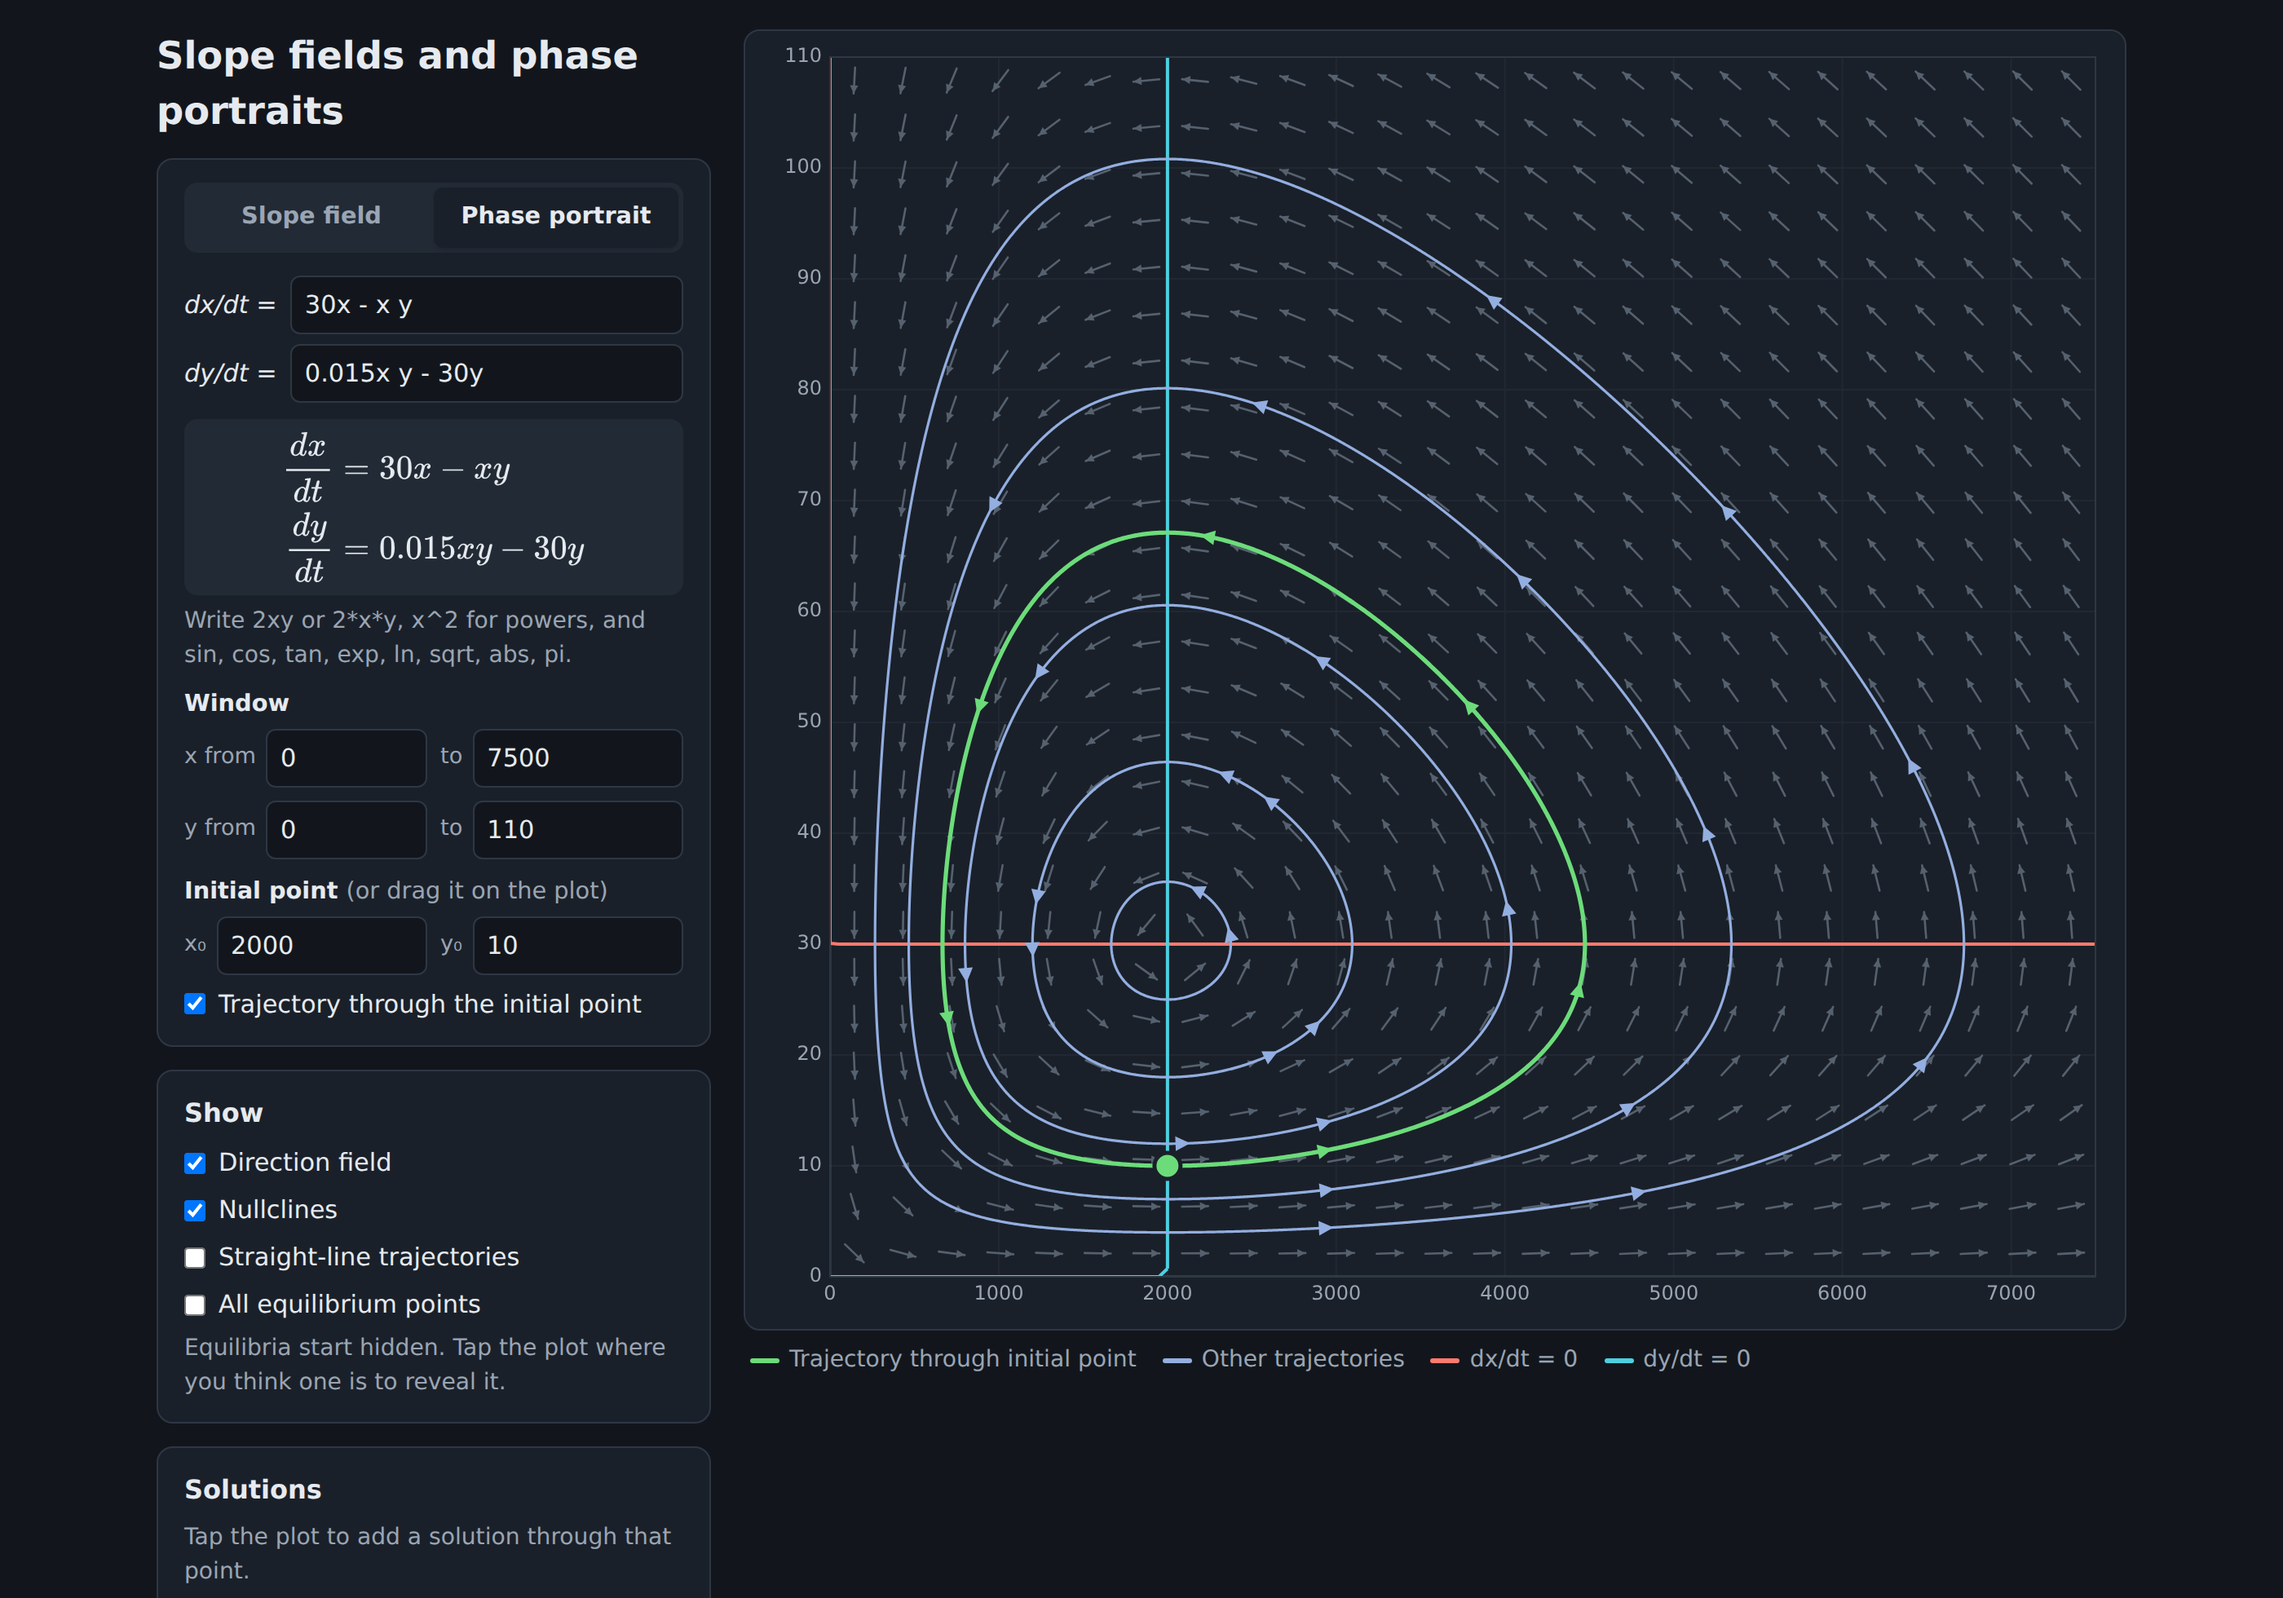
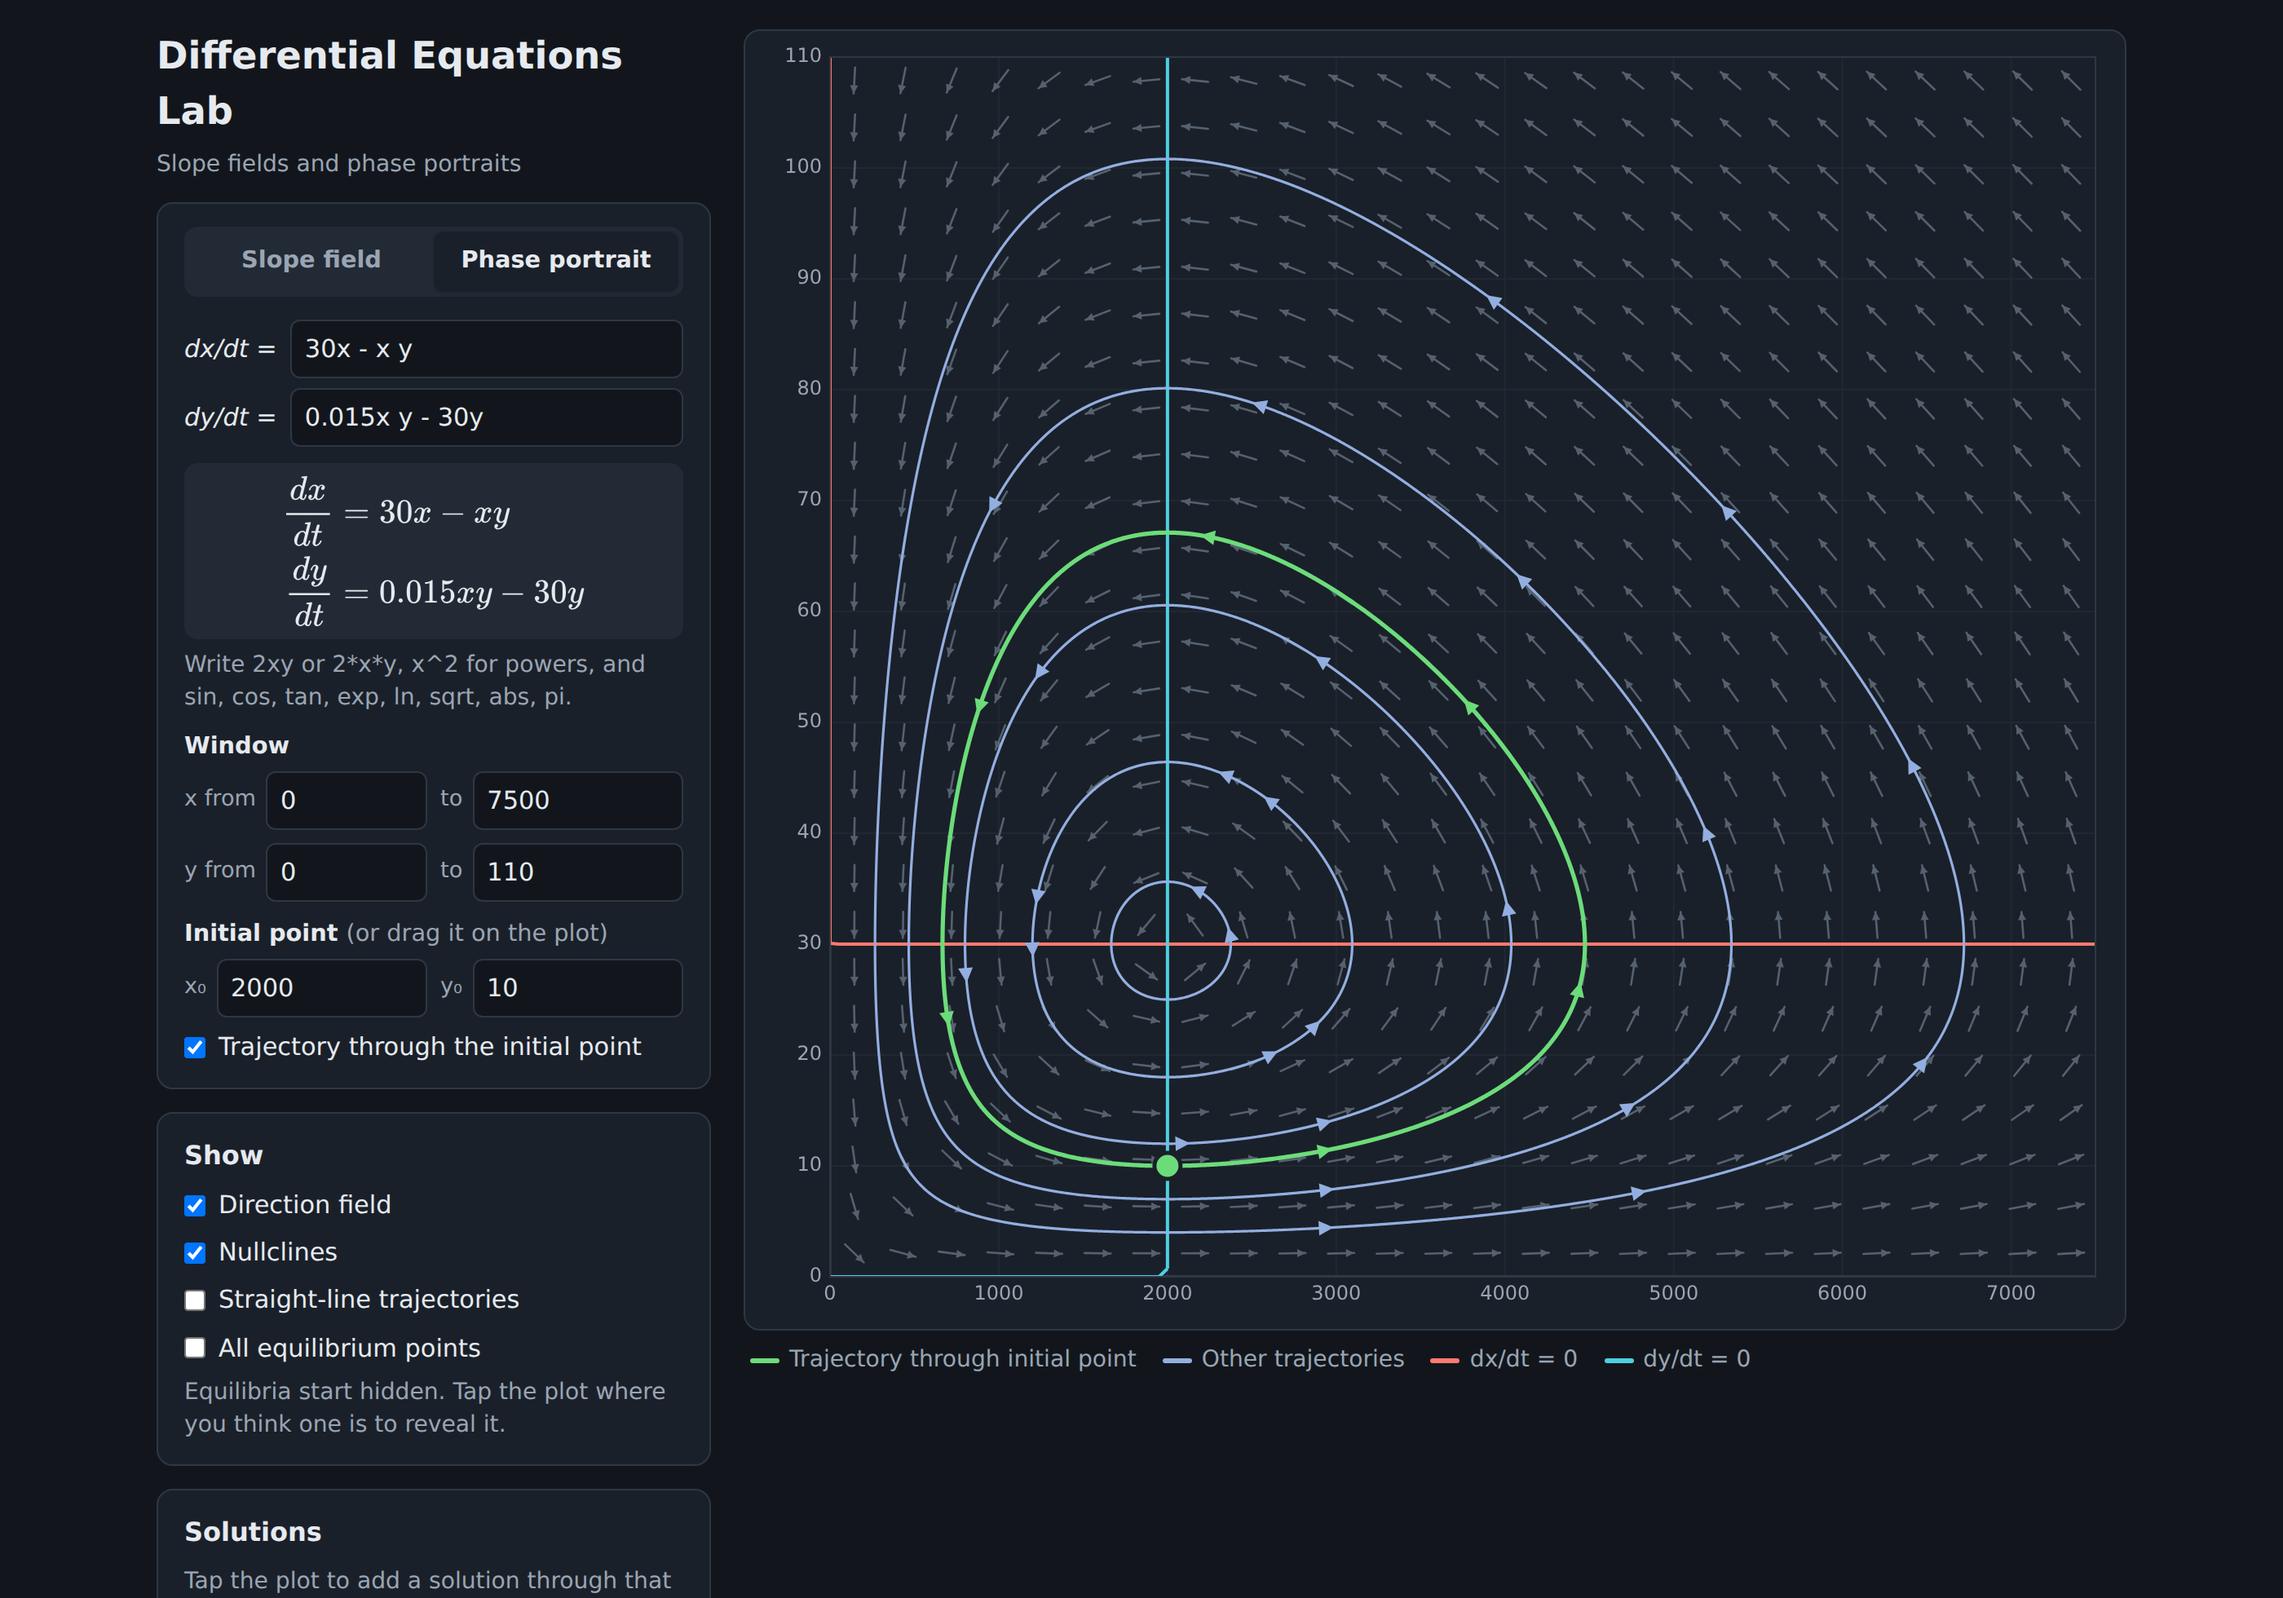
Title and Image Added

Changed region(s): [[0.0621, 0.0, 0.3107, 0.9959]]

diff --git a/index.html b/index.html
@@ -3,7 +3,13 @@
 <head>
 <meta charset="utf-8">
 <meta name="viewport" content="width=device-width, initial-scale=1, viewport-fit=cover">
-<title>Slope fields and phase portraits</title>
+<title>Differential Equations Lab</title>
+<meta name="description" content="Interactive slope fields and phase portraits for teaching differential equations, with Euler's method, nullclines, equilibria and a classify-and-solve activity.">
+<meta property="og:title" content="Differential Equations Lab">
+<meta property="og:description" content="Interactive slope fields and phase portraits for teaching differential equations.">
+<meta property="og:image" content="https://liamyardley.github.io/Differential-Equations-Lab/screenshots/social-preview.png">
+<meta property="og:url" content="https://liamyardley.github.io/Differential-Equations-Lab/">
+<meta name="twitter:card" content="summary_large_image">
 <link rel="preconnect" href="https://fonts.googleapis.com">
 <link href="https://fonts.googleapis.com/css2?family=Source+Sans+3:wght@400;600;700&display=swap" rel="stylesheet">
 <style>
@@ -85,6 +91,8 @@ tr.sel td{background:color-mix(in srgb,var(--euler) 18%,transparent)}
 .notes .why{background:var(--soft);border-radius:8px;padding:8px 12px;margin:8px 0}
 .notes mjx-container[display="true"]{overflow-x:auto;overflow-y:hidden;padding:2px 0}
 .try{border:1px dashed var(--line);border-radius:8px;padding:10px 12px;margin-top:6px}
+footer{max-width:1240px;margin:0 auto;padding:4px 16px 28px;color:var(--muted);font-size:.88rem;display:flex;flex-wrap:wrap;gap:6px 16px;justify-content:space-between;border-top:1px solid var(--line);padding-top:14px}
+footer a{color:var(--accent)}
 [hidden]{display:none!important}
 </style>
 <script>
@@ -95,7 +103,8 @@ window.MathJax={tex:{inlineMath:[["\\(","\\)"]],displayMath:[["\\[","\\]"]]},svg
 <body>
 <div class="wrap">
 <div>
-  <h1>Slope fields and phase portraits</h1>
+  <h1>Differential Equations Lab</h1>
+  <p class="hint" style="margin:-6px 0 12px">Slope fields and phase portraits</p>
   <div class="panel">
     <div class="seg" role="group" aria-label="Mode">
       <button id="mSlope" aria-pressed="true">Slope field</button>
@@ -192,6 +201,10 @@ window.MathJax={tex:{inlineMath:[["\\(","\\)"]],displayMath:[["\\[","\\]"]]},svg
 </div>
 </div>
 
+<footer>
+  <span>Differential Equations Lab by <a href="https://github.com/liamyardley">Liam Yardley</a>. Code MIT, notes CC BY-NC-SA 4.0.</span>
+  <a href="https://github.com/liamyardley/Differential-Equations-Lab">Source code on GitHub</a>
+</footer>
 <script>
 "use strict";
 /* ---------- Expression parser: one AST gives both evaluation and LaTeX ---------- */

diff --git a/README.md b/README.md
@@ -10,7 +10,7 @@ Type any first-order differential equation or 2D autonomous system and explore i
 
 ## Why
 
-Free online tools tend to do one thing: plot a slope field, or draw a phase portrait. Very few let students drag an initial condition, see Euler's method built step by step, or find equilibrium points for themselves. DE Explorer was built for the IB Mathematics: Applications and Interpretation HL course, but it suits any course that covers first-order differential equations, coupled systems or numerical methods.
+Free online tools tend to do one thing: plot a slope field, or draw a phase portrait. Very few let students drag an initial condition, see Euler's method built step by step, or find equilibrium points for themselves. Differential Equations Lab was built for the IB Mathematics: Applications and Interpretation HL course, but it suits any course that covers first-order differential equations, coupled systems or numerical methods.
 
 ## Features
 
@@ -92,7 +92,7 @@ Slope fields use x and y. Phase portraits use x and y for an autonomous system (
 
 ## Running locally
 
-Download or clone the repository and open `index.html` in a browser. There is no build step and nothing to install. LaTeX is rendered by [MathJax 3](https://www.mathjax.org/), loaded from the jsDelivr CDN, so an internet connection is needed for the typeset equations; everything else works offline.
+Clone the repository (`git clone https://github.com/liamyardley/Differential-Equations-Lab.git`) or download it and open `index.html` in a browser. There is no build step and nothing to install. LaTeX is rendered by [MathJax 3](https://www.mathjax.org/), loaded from the jsDelivr CDN, so an internet connection is needed for the typeset equations; everything else works offline.
 
 ## Hosting with GitHub Pages
 
